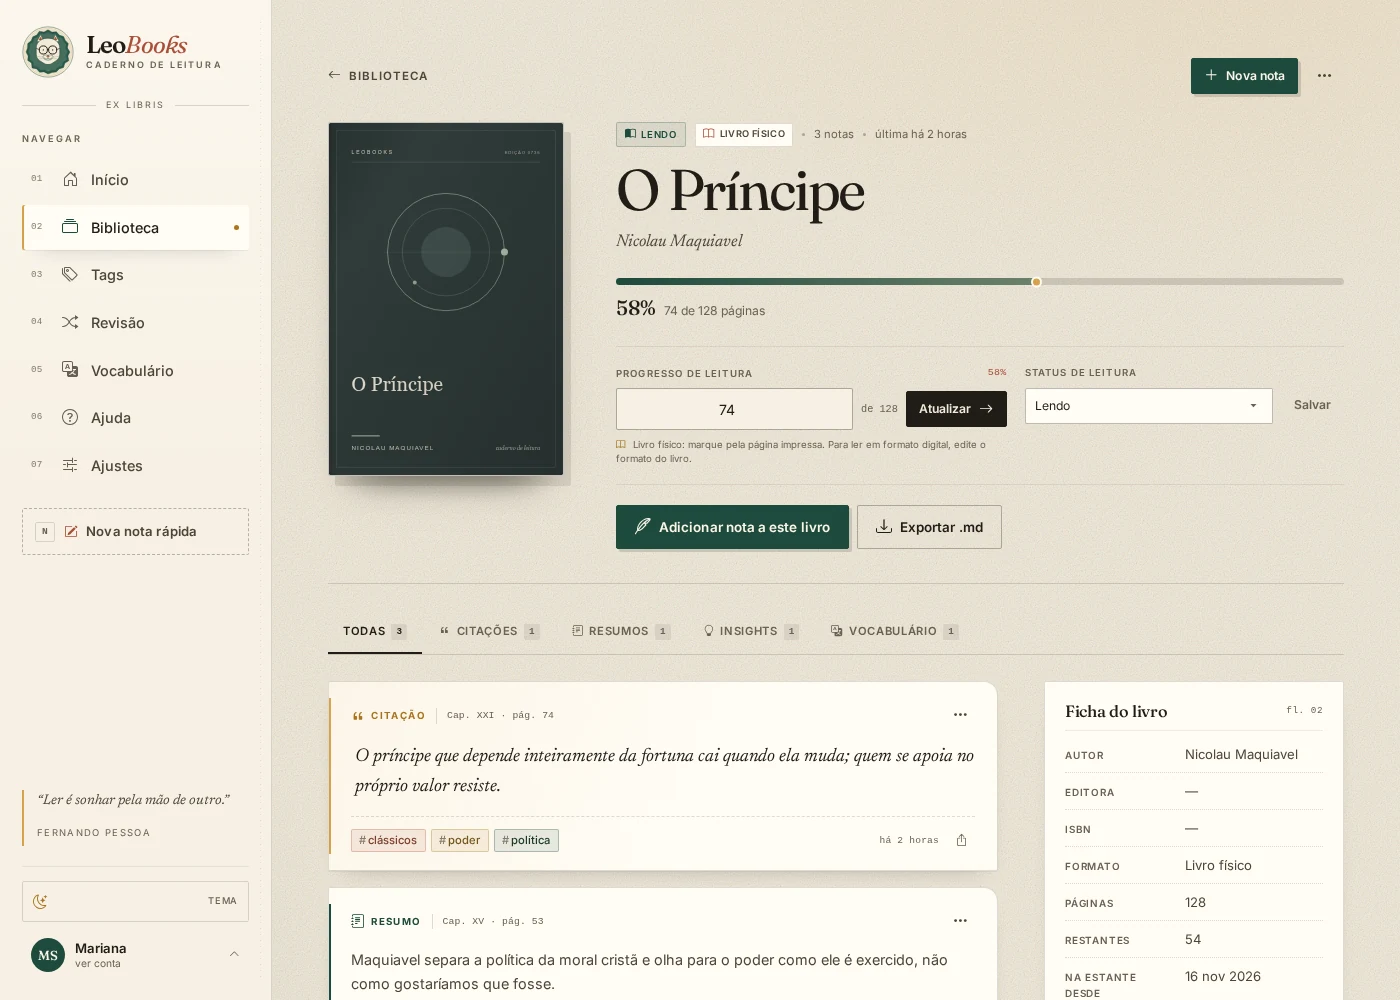
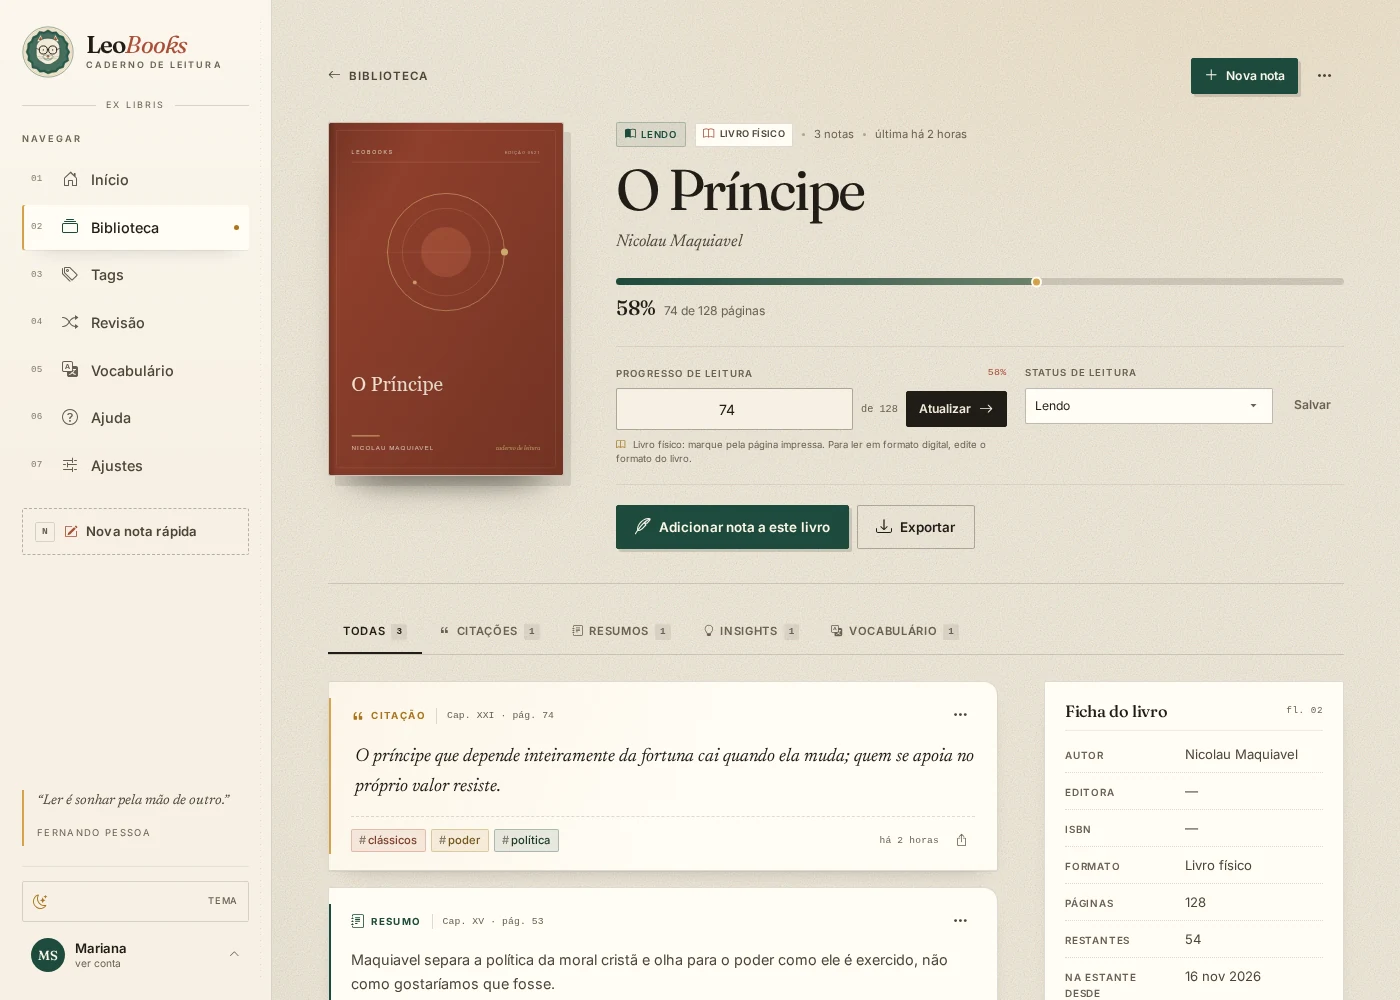
remove a extensão dos botões de exportação
Os botões passam a dizer apenas Exportar, sem expor .md para quem usa o aplicativo.

Changed region(s): [[0.215, 0.124, 0.43, 0.496]]

diff --git a/templates/book_detail.html b/templates/book_detail.html
@@ -27,7 +27,7 @@
         </li>
         <li>
           <a class="dropdown-item" href="{{ url_for('settings.export_book', book_id=book.id) }}">
-            <i class="bi bi-markdown"></i> Exportar notas .md
+            <i class="bi bi-markdown"></i> Exportar notas
           </a>
         </li>
         <li><hr class="dropdown-divider"></li>
@@ -156,7 +156,7 @@
         <i class="bi bi-feather"></i> Adicionar nota a este livro
       </button>
       <a class="lb-btn lb-btn--ghost" href="{{ url_for('settings.export_book', book_id=book.id) }}">
-        <i class="bi bi-download"></i> Exportar .md
+        <i class="bi bi-download"></i> Exportar
       </a>
     </div>
   </div>

diff --git a/templates/vocabulary.html b/templates/vocabulary.html
@@ -29,7 +29,7 @@
       <i class="bi bi-feather"></i> Nova palavra
     </button>
     <a class="lb-btn lb-btn--ghost" href="{{ url_for('main.vocabulary_export') }}">
-      <i class="bi bi-download"></i> Exportar .md
+      <i class="bi bi-download"></i> Exportar
     </a>
   </div>
 </header>
